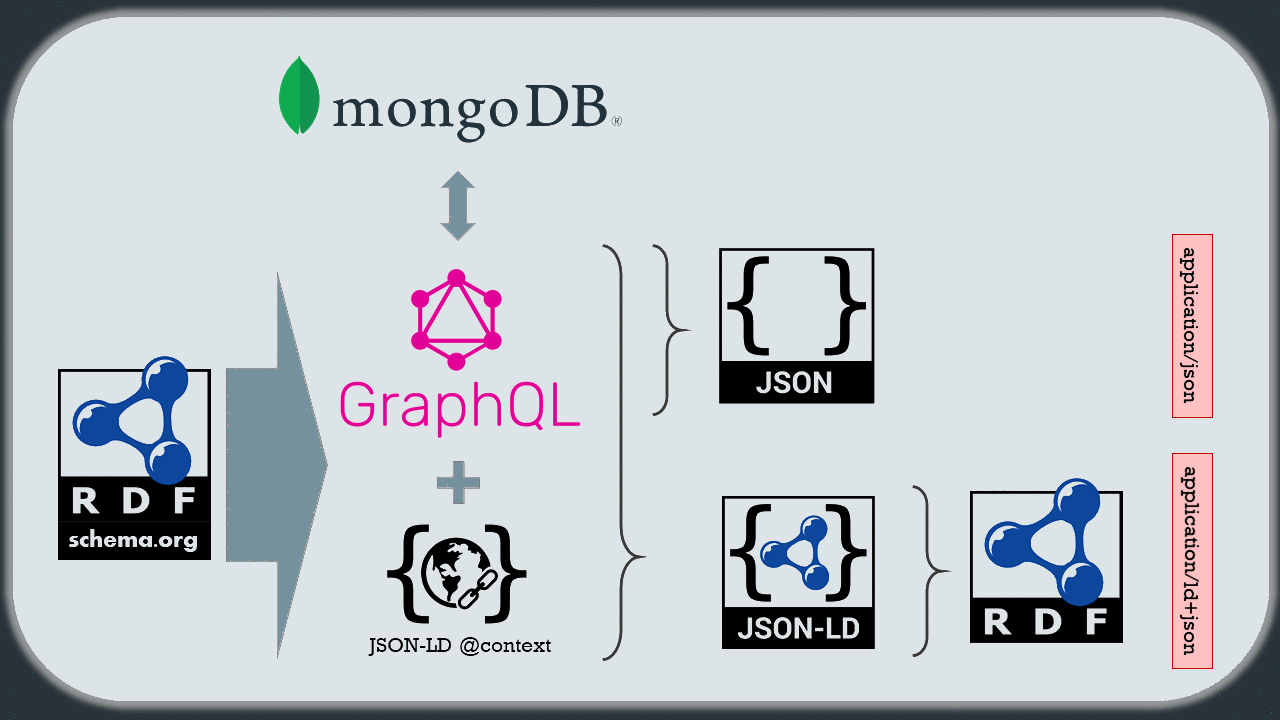
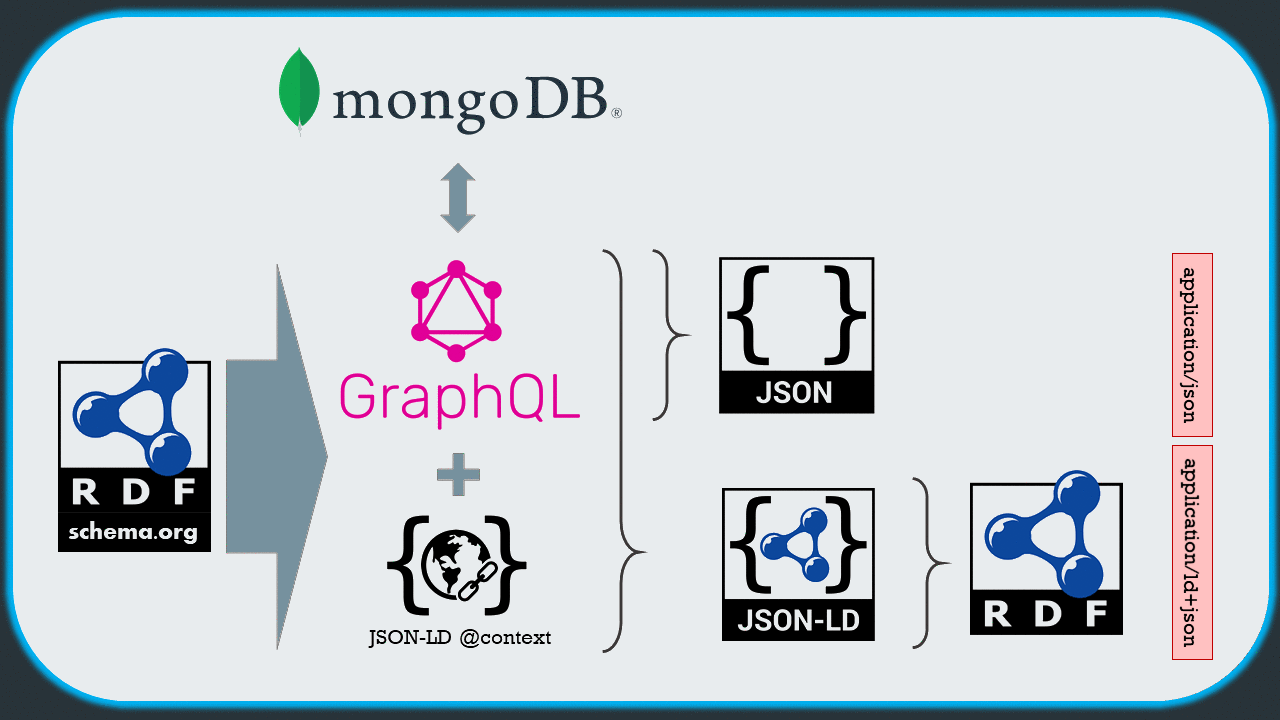
staple architecture figure improved

diff --git a/home/README.md b/home/README.md
@@ -4,7 +4,7 @@
 
 ## What is it good for?
 
-It is intended as a simple, yet flexible, **data abstraction middleware**, which you can set up within minutes to power your web app with the ability of storing and retrieving its data resources as parts of a connected, semantic knowledge graph, via a standard GraphQL interface. 
+It is intended as a simple, yet flexible, **data abstraction middleware**, which you can set up within minutes to power your web app with the ability to manage its data resources as fragments of a connected, semantic knowledge graph, using a standard GraphQL interface. 
 
 ## Key features
 
@@ -21,13 +21,13 @@ It is intended as a simple, yet flexible, **data abstraction middleware**, which
 <br>
 
 <p align="center">
-  <img src="staple-api-architecture.png">
+  <img src="staple-api-architecture2.png">
 </p>
 
 
 
-
-!> **Note**: *This project is at very early stages of development*
+<!-- 
+!> **Note**: *This project is at very early stages of development* -->
 
 
 ## Playground
